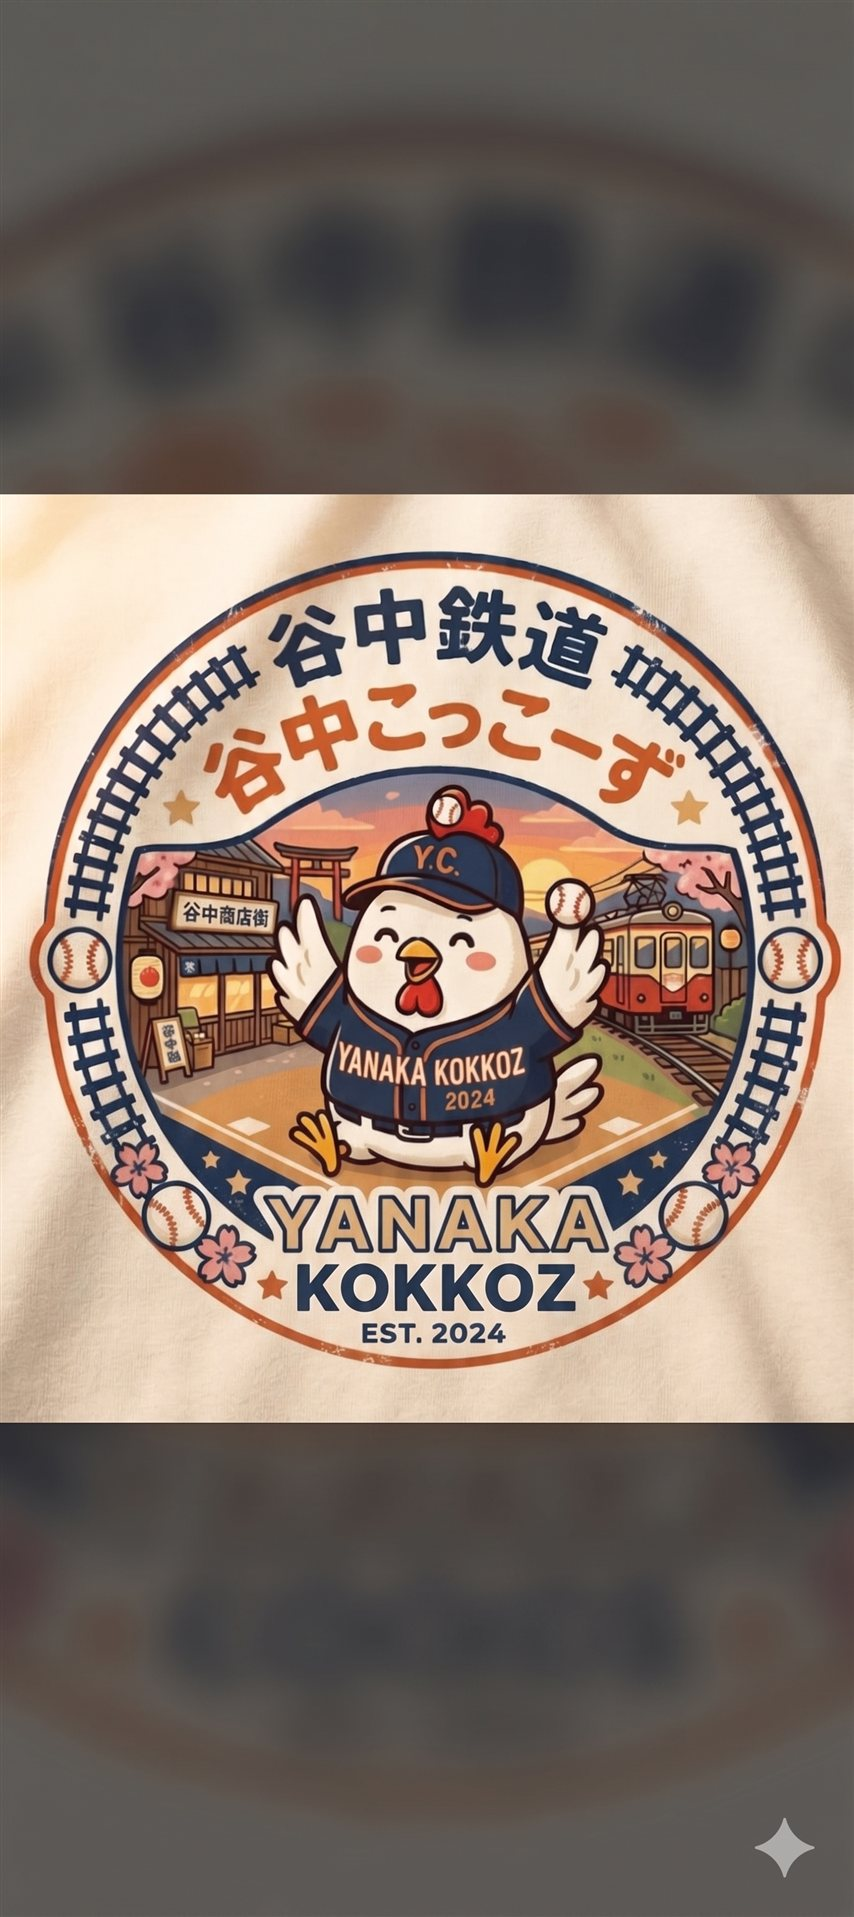
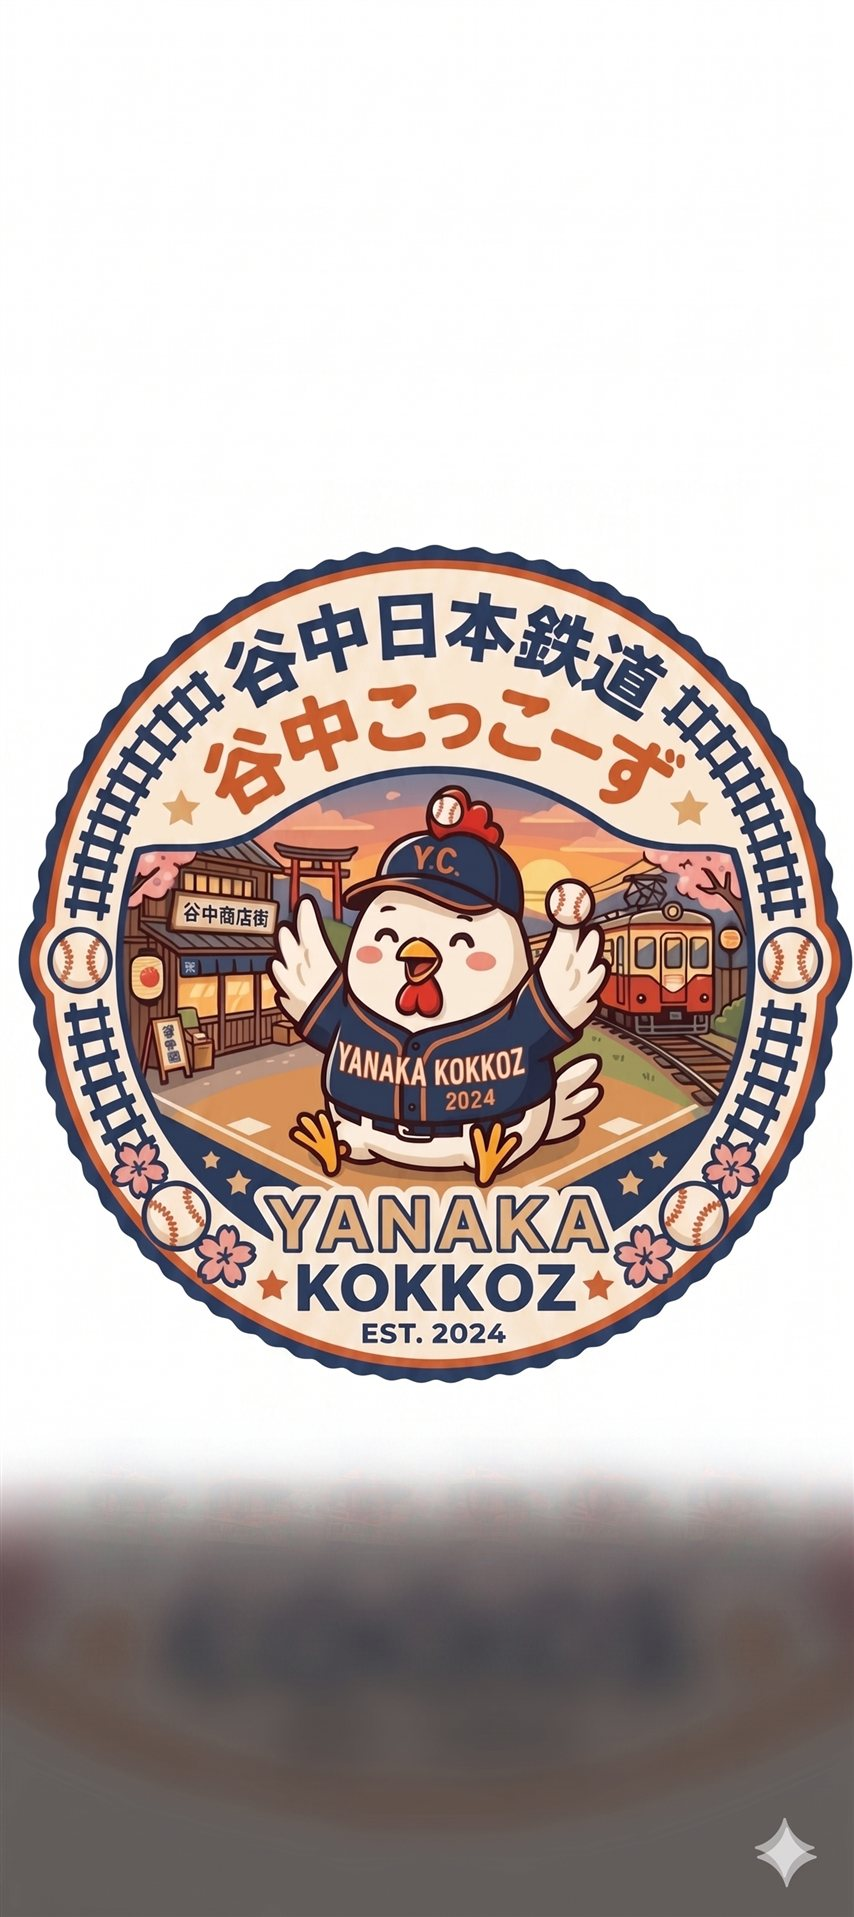
谷中こっこーず優勝記念ロゴを修正版に差し替え、記念モニュメント情報を追加
ロゴの「谷中鉄道」表記を「谷中日本鉄道」に修正
優勝記念モニュメント(イメージ)を記事内に追加

diff --git a/app/yanaka/page.js b/app/yanaka/page.js
@@ -51,6 +51,12 @@ export default function YanakaPage() {
                 <span className="yk-flag">優勝速報 / CHAMPIONS</span>
                 <h3>{page.topNews.title}</h3>
                 <p>{page.topNews.body}</p>
+                {page.topNews.subImage && (
+                  <div className="yk-news-sub">
+                    <img src={page.topNews.subImage} alt={page.topNews.subImageAlt} />
+                    <p className="yk-news-sub-text">{page.topNews.subCaption}</p>
+                  </div>
+                )}
               </div>
             </div>
             <div className="yk-news-band"></div>

diff --git a/app/globals.css b/app/globals.css
@@ -111,6 +111,9 @@ main.yk-main{grid-template-columns:minmax(0,1fr)}
 .yk-flag{display:inline-block;background:var(--ynr-yellow);color:var(--sign-ink);font-size:.72rem;font-weight:700;padding:2px 10px;border-radius:4px;letter-spacing:.1em;margin-bottom:8px}
 .yk-news-text h3{font-weight:900;font-size:1.3rem;line-height:1.5}
 .yk-news-text p{font-size:.92rem;color:var(--caption);margin-top:8px;max-width:46em}
+.yk-news-sub{margin-top:14px;padding-top:14px;border-top:1px dashed #d8dcdf;display:flex;gap:12px;align-items:center}
+.yk-news-sub img{width:72px;height:72px;max-height:72px;object-fit:cover;border-radius:8px;flex-shrink:0}
+.yk-news-sub-text{font-size:.82rem;color:var(--caption);margin:0;max-width:none}
 @media (max-width:720px){
   .yk-news-inner{grid-template-columns:1fr}
   .yk-news-inner img{max-height:300px}

diff --git a/CLAUDE.md b/CLAUDE.md
@@ -34,7 +34,8 @@ rail-sign-news/
 │   ├── yanaka/routemap/page.js … 谷中日本鉄道の路線図ページ(SVGで生成)。内容は data/yanaka.json の routemap で管理
 │   ├── yanaka/routemap/Downloads.js … 路線図の PNG/PDF/SVG ダウンロードボタン(クライアント部品)
 │   └── globals.css    … デザイン(プロトタイプ index.html から移植。yk-〜 は谷中鉄道用)
-├── public/yanaka/     … 谷中鉄道の画像(logo.jpg=YNRロゴ, kokkoz.jpg=こっこーず優勝エンブレム)
+├── public/yanaka/     … 谷中鉄道の画像(logo.jpg=YNRロゴ, kokkoz.jpg=こっこーず優勝エンブレム,
+│                         kokkoz-statue.jpg=こっこーず優勝記念モニュメント イメージ)
 ├── public/channels/   … 動画チャンネルのサムネ画像(raha.jpg=Raha鐵のチャンネルアイコン)
 ├── data/
 │   ├── manual-articles.json … 手動掲載記事(人間が編集する唯一の記事ファイル)